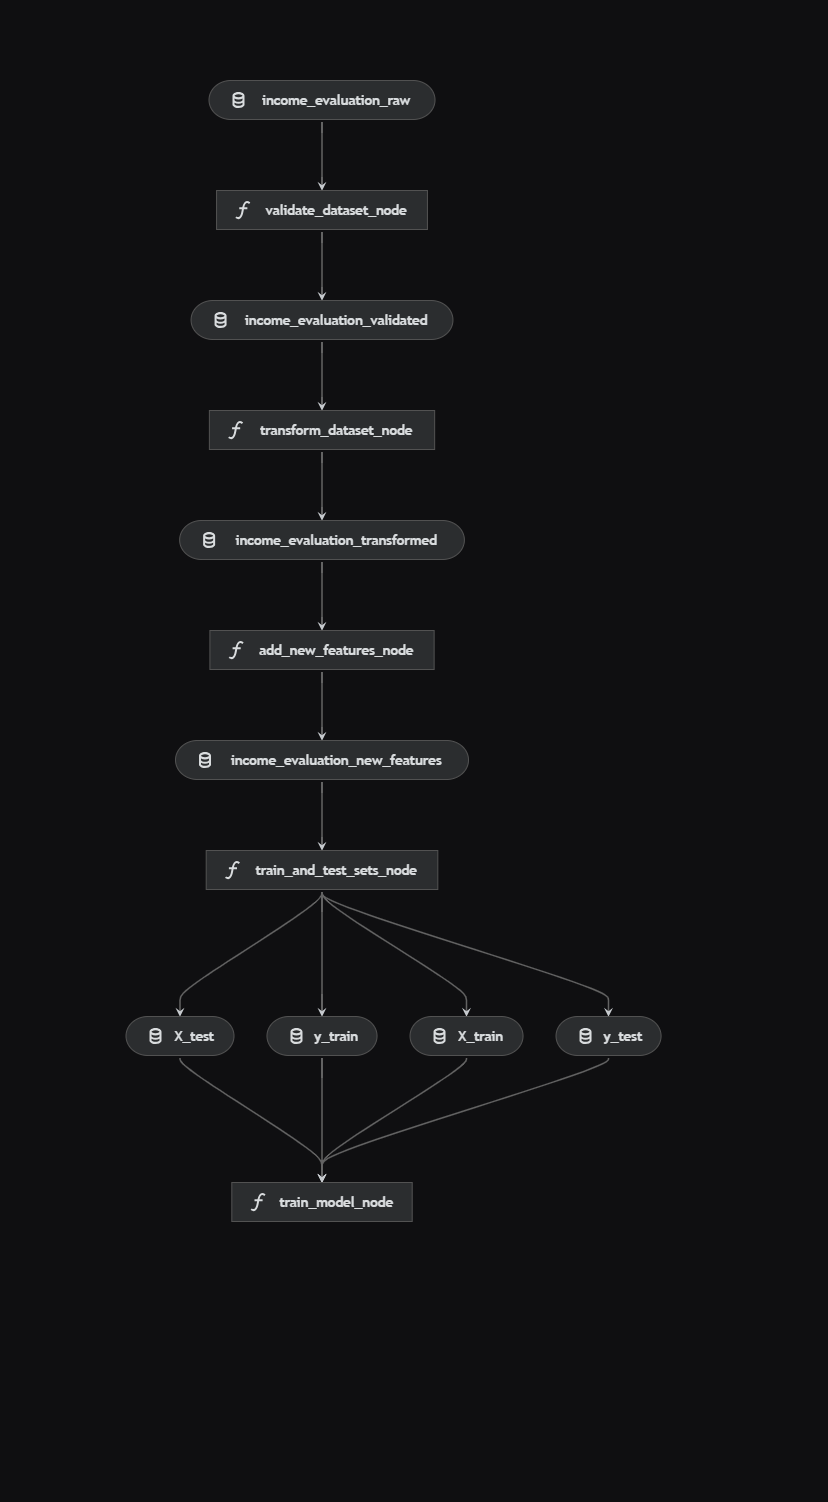
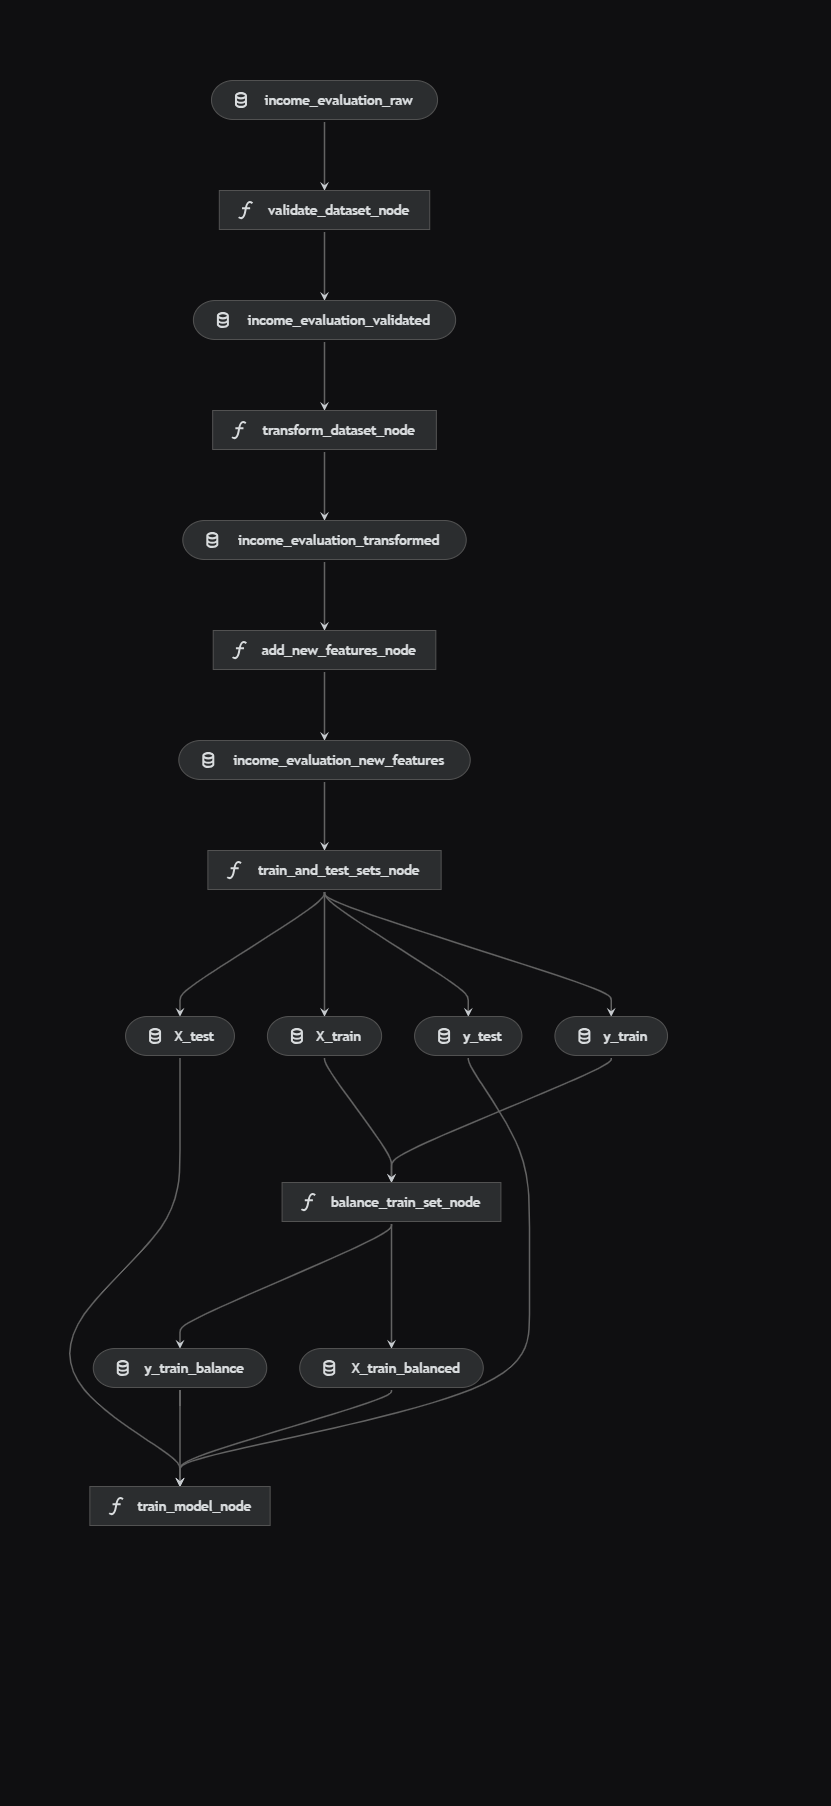
Balansowanie zbioru treningowego

diff --git a/pipeline/income-evaluation/src/income_evaluation/pipelines/create_model/nodes.py b/pipeline/income-evaluation/src/income_evaluation/pipelines/create_model/nodes.py
@@ -6,6 +6,7 @@ from tools import upload_zip_file
 from income_evaluation.utils import get_drive_service, validate_data, get_train_and_test_sets, generate_filename, generate_short_uuid
 from autogluon.tabular import TabularPredictor
 from sklearn.metrics import classification_report
+from sklearn.utils import resample
 
 
 target_column = 'high_income'
@@ -77,6 +78,36 @@ def train_and_test_sets(income_evaluation_new_features):
     X_train, X_test, y_train, y_test = get_train_and_test_sets(income_evaluation_new_features, target_column)
 
     return X_train, X_test, y_train, y_test
+
+
+def balance_train_set(X_train, y_train):
+
+    train_data = pd.concat([X_train, y_train], axis=1)
+
+    df_majority = train_data[train_data[target_column] == False]
+    df_minority = train_data[train_data[target_column] == True]
+
+
+    print(f'Klasa false: {len(df_majority)}')
+    print(f'Klasa true: {len(df_minority)}')
+
+        # Zbalansuj przez oversampling
+    df_minority_upsampled = resample(df_minority,
+                                 replace=True,
+                                 n_samples=len(df_majority),
+                                 random_state=42)
+
+    train_data_balanced = pd.concat([df_majority, df_minority_upsampled])
+
+        # Mieszamy dane
+    train_data_balanced = train_data_balanced.sample(frac=1, random_state=42).reset_index(drop=True)
+
+    # Rozdzielamy z powrotem X i y
+    X_train_balanced = train_data_balanced.drop(columns=[target_column])
+    y_train_balanced = train_data_balanced[[target_column]]
+
+    return X_train_balanced, y_train_balanced
+
 
 
 def train_model(X_train, X_test, y_train, y_test):

diff --git a/pipeline/income-evaluation/src/income_evaluation/pipelines/create_model/pipeline.py b/pipeline/income-evaluation/src/income_evaluation/pipelines/create_model/pipeline.py
@@ -1,5 +1,5 @@
 from kedro.pipeline import node, Pipeline, pipeline  # noqa
-from .nodes import validate_dataset, transform_dataset, add_new_features, train_model, train_and_test_sets
+from .nodes import validate_dataset, transform_dataset, add_new_features, train_model, train_and_test_sets, balance_train_set
 
 
 def create_pipeline(**kwargs) -> Pipeline:
@@ -28,9 +28,15 @@ def create_pipeline(**kwargs) -> Pipeline:
     outputs=['X_train', 'X_test', 'y_train', 'y_test'],
     name="train_and_test_sets_node"
     ),
+node(
+    func=balance_train_set,
+    inputs=['X_train', 'y_train'],
+    outputs=['X_train_balanced', 'y_train_balance'],
+    name="balance_train_set_node"
+    ),
  node(
     func=train_model,
-    inputs=['X_train', 'X_test', 'y_train', 'y_test'],
+    inputs=['X_train_balanced', 'X_test', 'y_train_balance', 'y_test'],
     outputs=None,
     name="train_model_node"
     )

diff --git a/pipeline/income-evaluation/README.md b/pipeline/income-evaluation/README.md
@@ -27,9 +27,11 @@ Zamienia znaki zapytania '?' na Unknown.
 ### add_new_features_node
 Dodaje nową ceche kontynent na który jest położony dany kraj (chyba, że to USA to wtedy zostaje USA -> zrobiłem tak poniważ osób z USA jest najwięcej -> do dyskusji).
 
-
 ### train_and_test_sets_node
 Stworzenie plików treningowych i testowych.
+
+### balance_train_set_node
+Balansowanie zbioru treningowego za pomocą resample.
 
 ### train_model_node
 Tranowanie modelu za pomocą autogluon na standordowych ustawieniach i zapis na chmurę google (jeżeli opcja UPLOAD_MODEL jest włączona)
@@ -47,8 +49,19 @@ weighted avg     0.8157    0.8230    0.8181      6513
 ### Uruchomienie 
 kedro run (testowane tylko na Windows)
 
-### Do dodania
-Zbalanoswanie danych -> do dyskusji
+### Balansowanie
+
+Za pomocą resample
+
+Raport klasyfikacji:
+               precision    recall  f1-score   support
+
+       False     0.8830    0.8626    0.8727      4927
+        True     0.6018    0.6450    0.6226      1586
+
+    accuracy                         0.8096      6513
+   macro avg     0.7424    0.7538    0.7477      6513
+weighted avg     0.8145    0.8096    0.8118      6513
 
 
 ## skrypt tools/test
